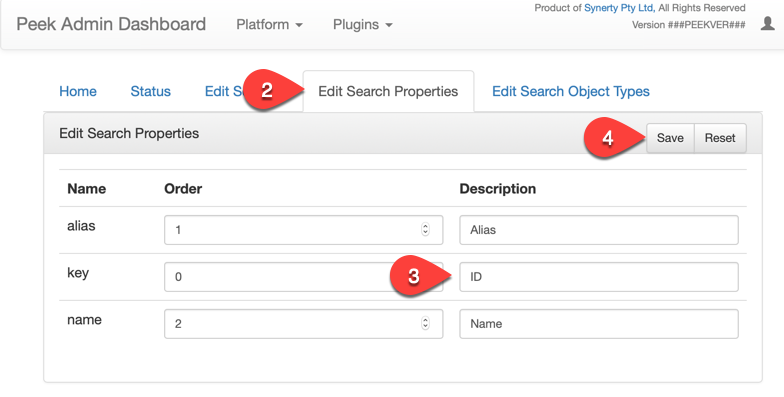
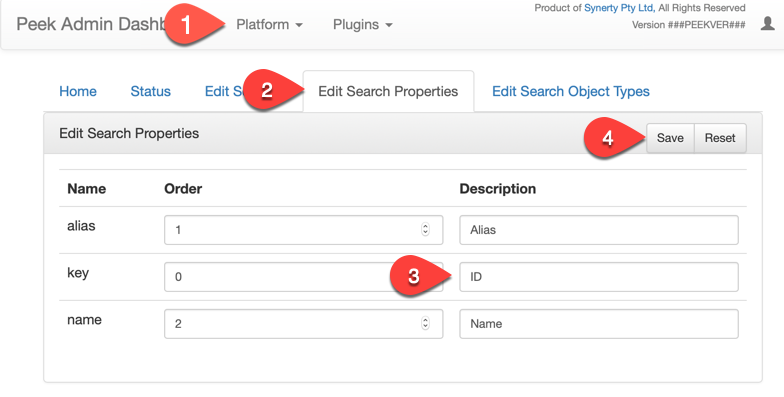
NZWNA-158 Most files included
Alarms and Events
DMS Diagram
Markup
Layering
Searching
Branching
Switching
Tracing
Users

Changed region(s): [[0.1837, 0.0, 0.3061, 0.1209]]

diff --git a/peek_core_search/both-doc/searching.rst b/peek_core_search/both-doc/searching.rst
@@ -1,0 +1,57 @@
+===================
+Search For Anything
+===================
+
+.. toctree::
+    :maxdepth: 2
+    :caption: Contents:
+
+Overview
+--------
+
+This screen is used to search the Peek database.
+
+Searches can be performed with the following criteria :
+
+- Whole keywords (partial is on the roadmap)
+- An object type, or all object types
+- The property name that contains the keyword, or all property names.
+
+Peeks Search functionality can be used to find:
+
+- Jobs
+- Operations
+- Incidents
+- Equipment
+
+How to Search
+-------------
+
+#. Click on the **Search for Anything** button on the Navigation Bar.
+
+.. image:: search_button.png
+    :align: center
+
+----
+
+#. Enter a **Keyword** into the search bar.
+#. Select the **Object** type.
+#. Select your search result.
+
+.. image:: search_popup.png
+    :align: center
+
+Filtering Search Results
+------------------------
+
+#. Click the filter button
+#. Click on the **Property** or **Object Type** to view the dropdown menu.
+#. Click on your filter attribute.
+
+.. image:: search_filtered.png
+    :align: center
+
+.. note::
+    Clicking on an object in the search results will display an **Information
+    Popup**.
+ 

diff --git a/peek_core_search/both-doc/index.rst b/peek_core_search/both-doc/index.rst
@@ -1,0 +1,16 @@
+==========
+User Guide
+==========
+
+This plugin provides a search facility for peek with the following support :
+
+- Search by multiple keywords
+- Indexing multiple object types, jobs, equipment, etc.
+- Support for switching to other plugins and showing the object.
+- Multiple location results for each object.
+
+.. toctree::
+    :maxdepth: 2
+    :caption: Contents:
+
+    searching.rst

diff --git a/peek_core_search/admin-doc/overview.rst b/peek_core_search/admin-doc/overview.rst
@@ -11,7 +11,9 @@ Search Criteria
 
 Searches can be performed with the following criteria :
 
-*   Whole keywords (partial is on the roadmap)
+*   Whole keywords
+
+*   Partial keywords
 
 *   An object type, or all object types
 
